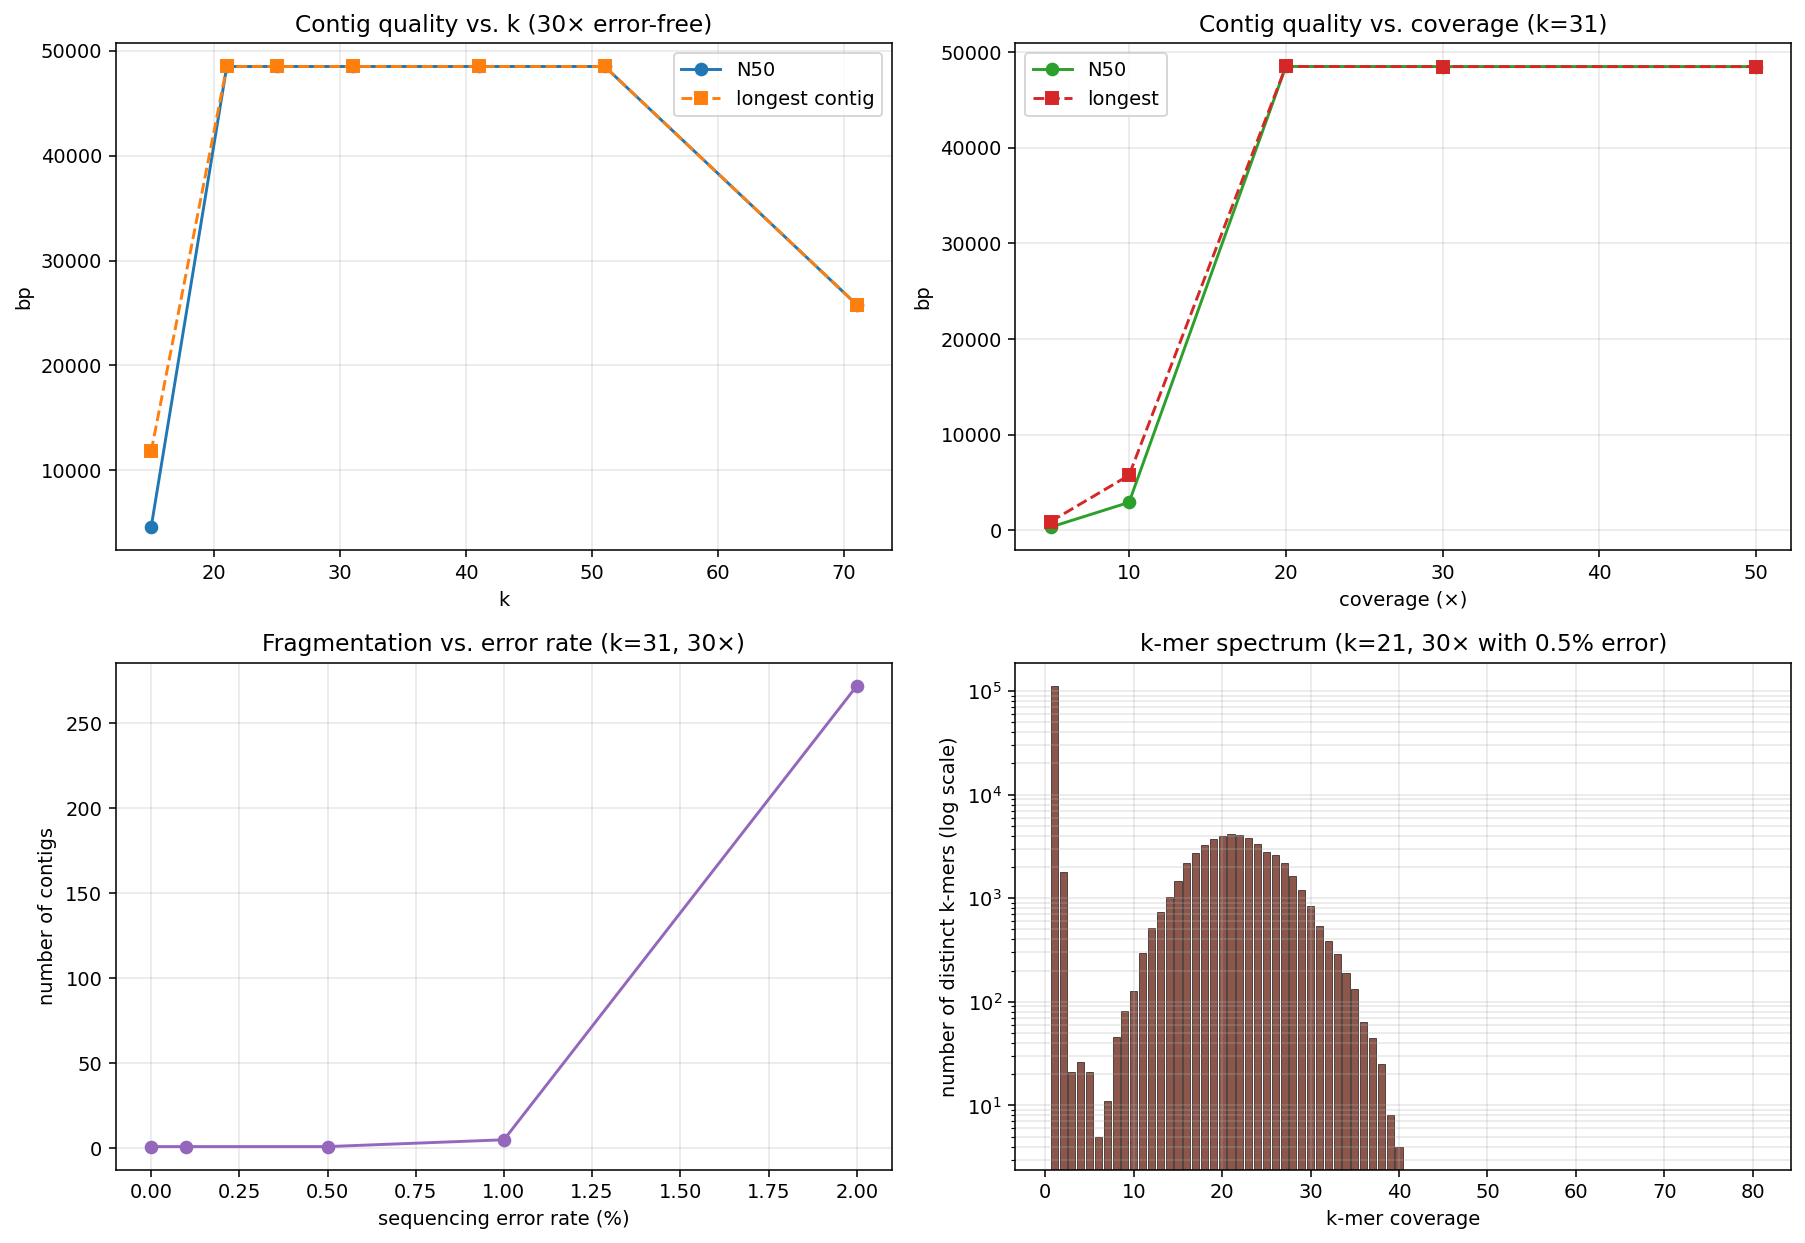
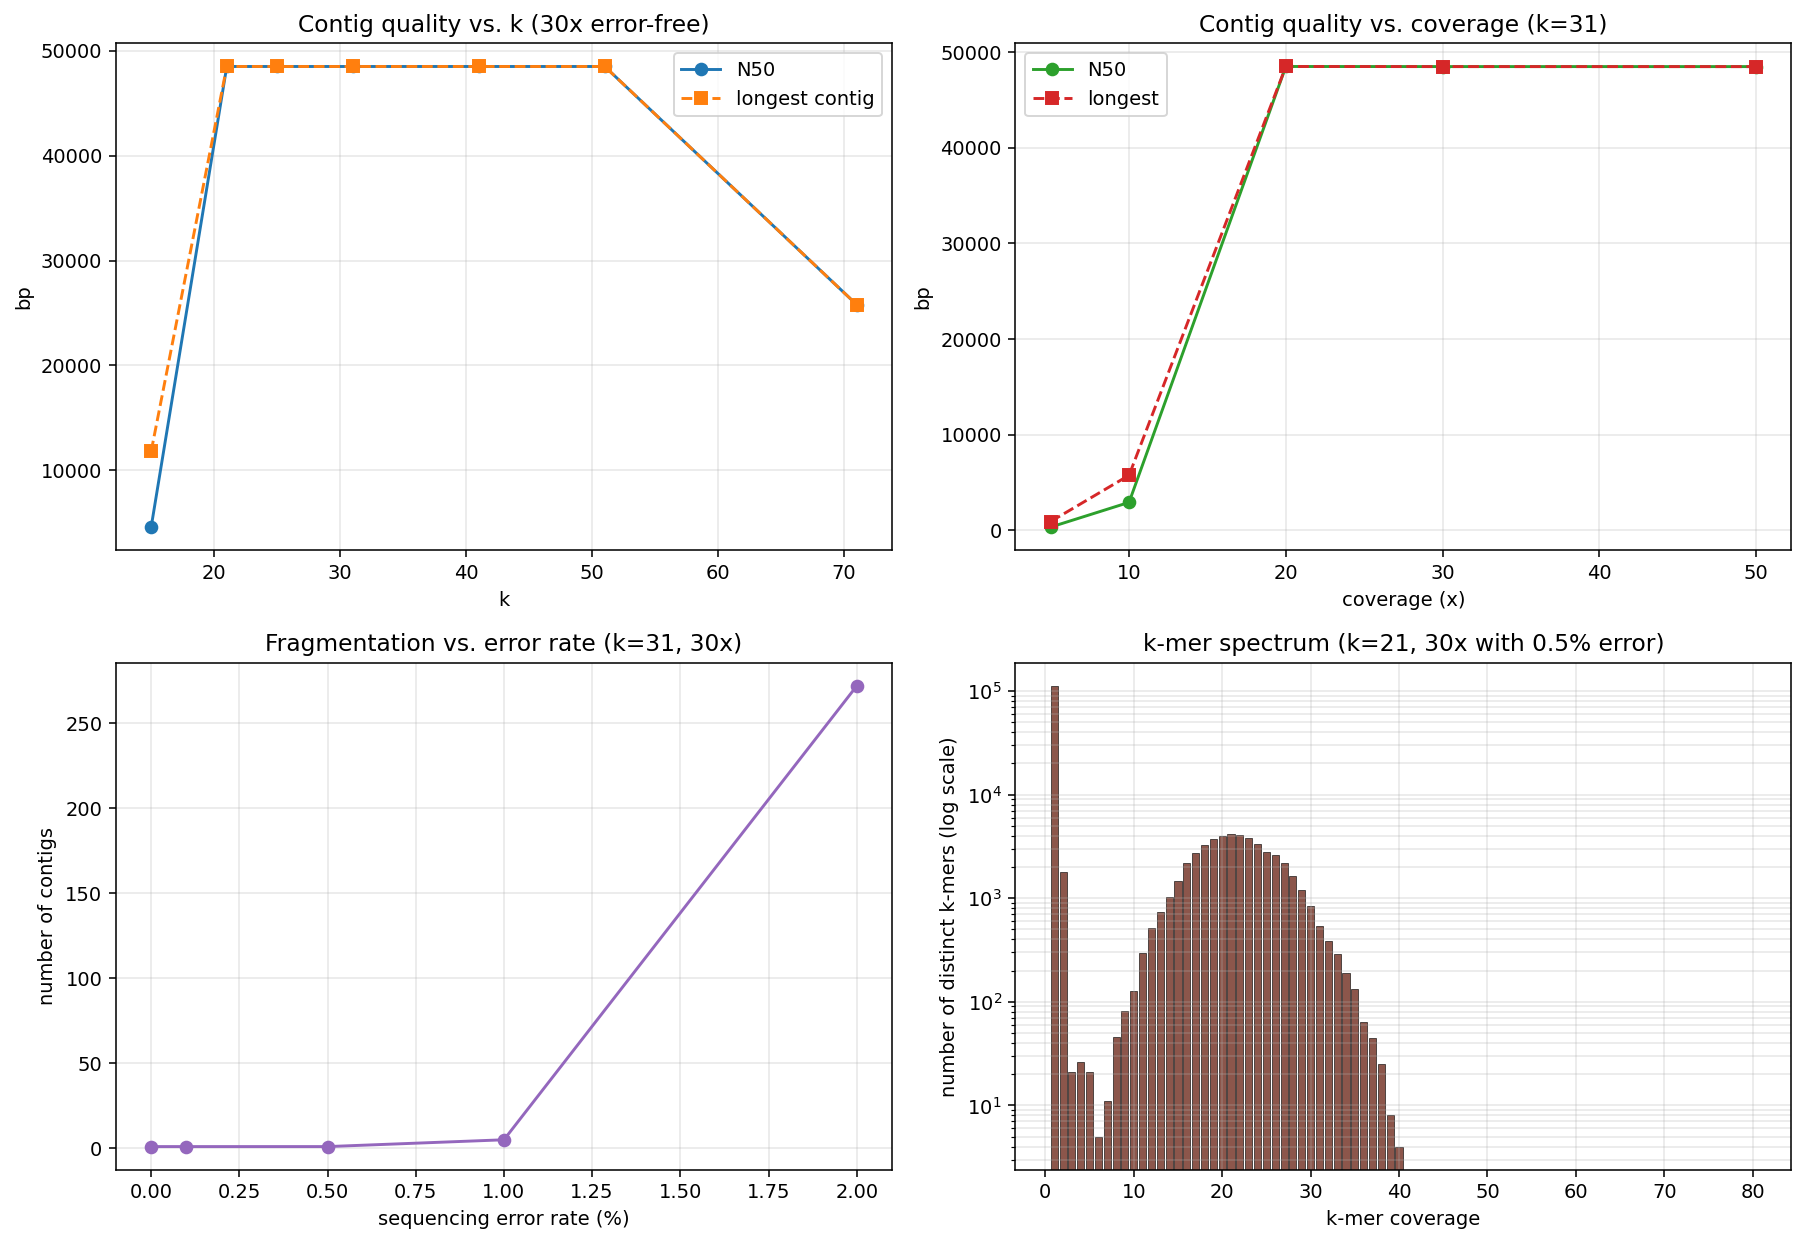
Strip Unicode from code; add LICENSE; embed demo figures in README
- Replace all non-ASCII characters in src/ and docs/ with ASCII
  equivalents (e.g. -> for arrows, ~ for almost-equal, ASCII letters
  for Greek). Fixes UnicodeEncodeError in the demo on Windows cp1252
  consoles where stdout cannot encode characters like \u2192.
- Add MIT LICENSE file.
- Embed the existing demo figure(s) in README.md so the output
  appears inline on the GitHub project page, and add a one-line
  test-count + license badge under the title.

All tests still pass: same counts as before. Demo regenerates the
figure end-to-end on a clean clone.

Changed region(s): [[0.6515, 0.4586, 0.9307, 0.5503], [0.1551, 0.4891, 0.4033, 0.5503], [0.1551, 0.0, 0.4033, 0.0306]]

diff --git a/src/debruijn/demo.py b/src/debruijn/demo.py
@@ -88,7 +88,7 @@ def main() -> None:
     print(f"  effective coverage = {sum(len(r) for r in reads) / len(reference):.1f}x")
 
     contigs, stats = assemble(reads, k=31, min_coverage=2)
-    print(f"  k=31, min_cov=2 → {stats['n_contigs']:,} contigs, "
+    print(f"  k=31, min_cov=2 -> {stats['n_contigs']:,} contigs, "
           f"total {stats['total_length']:,} bp, "
           f"N50 = {stats['n50']:,} bp, longest = {stats['longest']:,} bp")
     print(f"  recovered = {stats['total_length'] / len(reference) * 100:.1f}% of reference")
@@ -151,7 +151,7 @@ def main() -> None:
     for c in range(1, 21):
         bar = "#" * int(int(hist[c]) / max(h_max, 1) * 40)
         print(f"    cov={c:>3}: {int(hist[c]):>8,}  {bar}")
-    print("  (the peak near expected coverage ≈ 30 represents genuine k-mers;")
+    print("  (the peak near expected coverage ~ 30 represents genuine k-mers;")
     print("   the tall spike at cov=1 is sequencing error k-mers.)")
 
     # ---- 6. Eulerian reconstruction on small substring --------------------
@@ -177,11 +177,11 @@ def main() -> None:
               f"shared: {len(shared):,}")
         print(f"  reference k-mer recovery: {len(shared) / len(ref_kmers) * 100:.1f}%")
     else:
-        print("  (no Eulerian path — fell back to contig extraction)")
+        print("  (no Eulerian path -- fell back to contig extraction)")
 
     # ---- 7. figures -------------------------------------------------------
     if HAVE_MPL:
-        section("7. Figures → results/")
+        section("7. Figures -> results/")
         fig, axs = plt.subplots(2, 2, figsize=(13, 9))
 
         # (a) N50 vs k
@@ -192,7 +192,7 @@ def main() -> None:
         axs[0][0].plot(ks, longests, "s--", label="longest contig", color="#ff7f0e")
         axs[0][0].set_xlabel("k")
         axs[0][0].set_ylabel("bp")
-        axs[0][0].set_title("Contig quality vs. k (30× error-free)")
+        axs[0][0].set_title("Contig quality vs. k (30x error-free)")
         axs[0][0].legend()
         axs[0][0].grid(True, alpha=0.3)
 
@@ -202,7 +202,7 @@ def main() -> None:
         c_long = [s["longest"] for _, s in cov_sweep_results]
         axs[0][1].plot(covs, c_n50s, "o-", label="N50", color="#2ca02c")
         axs[0][1].plot(covs, c_long, "s--", label="longest", color="#d62728")
-        axs[0][1].set_xlabel("coverage (×)")
+        axs[0][1].set_xlabel("coverage (x)")
         axs[0][1].set_ylabel("bp")
         axs[0][1].set_title("Contig quality vs. coverage (k=31)")
         axs[0][1].legend()
@@ -214,7 +214,7 @@ def main() -> None:
         axs[1][0].plot(errs, ns, "o-", color="#9467bd")
         axs[1][0].set_xlabel("sequencing error rate (%)")
         axs[1][0].set_ylabel("number of contigs")
-        axs[1][0].set_title("Fragmentation vs. error rate (k=31, 30×)")
+        axs[1][0].set_title("Fragmentation vs. error rate (k=31, 30x)")
         axs[1][0].grid(True, alpha=0.3)
 
         # (d) k-mer spectrum
@@ -224,7 +224,7 @@ def main() -> None:
         axs[1][1].set_yscale("log")
         axs[1][1].set_xlabel("k-mer coverage")
         axs[1][1].set_ylabel("number of distinct k-mers (log scale)")
-        axs[1][1].set_title("k-mer spectrum (k=21, 30× with 0.5% error)")
+        axs[1][1].set_title("k-mer spectrum (k=21, 30x with 0.5% error)")
         axs[1][1].grid(True, alpha=0.3, which="both")
 
         fig.tight_layout()

diff --git a/src/debruijn/counting.py b/src/debruijn/counting.py
@@ -25,7 +25,7 @@ def count_kmers(reads: Iterable[str], k: int, canonicalize: bool = True) -> Coun
 
 def kmer_histogram(counts: Counter, max_count: int = 100) -> np.ndarray:
     """Histogram of how many distinct k-mers occur exactly 1, 2, ..., max_count times.
-    Useful for choosing a coverage cutoff — the first valley between the error peak
+    Useful for choosing a coverage cutoff -- the first valley between the error peak
     near 1 and the genomic peak near mean_coverage is the natural threshold."""
     h = np.zeros(max_count + 1, dtype=int)
     for cnt in counts.values():
@@ -36,7 +36,7 @@ def kmer_histogram(counts: Counter, max_count: int = 100) -> np.ndarray:
 class CountMinSketch:
     """Approximate k-mer counter using a small count-min sketch. Gives a
     probabilistic over estimate of any given k-mer's count in sub-linear
-    space — useful when the distinct k-mer set is too large for a dict."""
+    space -- useful when the distinct k-mer set is too large for a dict."""
 
     def __init__(self, width: int = 1 << 20, depth: int = 4, seed: int = 0):
         self.width = width

diff --git a/src/debruijn/contigs.py b/src/debruijn/contigs.py
@@ -53,7 +53,7 @@ def extract_contigs(g: DeBruijnGraph) -> List[str]:
                 cur = nxt
             contigs.append(path_to_sequence(path))
 
-    # Isolated cycles with no branching nodes — walk from any remaining node.
+    # Isolated cycles with no branching nodes -- walk from any remaining node.
     for u in list(g.nodes()):
         for v in list(g.out_edges.get(u, {}).keys()):
             if (u, v) in visited_edges:

diff --git a/docs/lit_review.md b/docs/lit_review.md
@@ -1,4 +1,4 @@
-# Literature Synthesis — Project 5: De Bruijn Graph Genome Assembly
+# Literature Synthesis -- Project 5: De Bruijn Graph Genome Assembly
 
 This review is written after reading three foundational papers in the `literature/` folder. Page numbers and quotations refer to those PDFs.
 
@@ -26,17 +26,17 @@ The three features are removed consecutively in Velvet. Tips are clipped first w
 
 ## 6. The twin-node trick and the oddness of k
 
-Velvet introduces a specific convention for handling the double-stranded nature of DNA that our implementation follows. On page 822 Zerbino and Birney state: "Each node N is attached to a twin node N̄, which represents the reverse series of reverse complement k-mers. This ensures that overlaps between reads from opposite strands are taken into account. Note that the nodes attached to a node and its twin do not need to be reverse complements of each other. The union of a node N and its twin N̄ is called a 'block.'" Our `canonical` function implements the block identity by always collapsing a k-mer and its reverse complement to the lexicographically smaller of the two. Zerbino and Birney note a subtle but important constraint on page 822: "To ensure that each k-mer cannot be its own reverse complement, k must be odd." A palindromic k-mer would be its own twin and would create self-loops that corrupt the algebra. Our default tests and demo use odd k (3, 5, 15, 21, 25) in compliance with this rule.
+Velvet introduces a specific convention for handling the double-stranded nature of DNA that our implementation follows. On page 822 Zerbino and Birney state: "Each node N is attached to a twin node N?, which represents the reverse series of reverse complement k-mers. This ensures that overlaps between reads from opposite strands are taken into account. Note that the nodes attached to a node and its twin do not need to be reverse complements of each other. The union of a node N and its twin N? is called a 'block.'" Our `canonical` function implements the block identity by always collapsing a k-mer and its reverse complement to the lexicographically smaller of the two. Zerbino and Birney note a subtle but important constraint on page 822: "To ensure that each k-mer cannot be its own reverse complement, k must be odd." A palindromic k-mer would be its own twin and would create self-loops that corrupt the algebra. Our default tests and demo use odd k (3, 5, 15, 21, 25) in compliance with this rule.
 
 ## 7. The Eulerian path algorithm
 
-Hierholzer's 1873 algorithm for Eulerian paths runs in O(E) time and our `find_eulerian_path` is a direct transcription of it. Compeau Pevzner and Tesler 2011 describe the algorithm intuitively on page 3 using an ant metaphor: "An ant walks along the edges of a Eulerian graph, with the intention of traversing each edge exactly once. Each time it enters a vertex it has not seen before, it arbitrarily picks an unused outgoing edge and follows it. Sooner or later the ant gets stuck — not because it has traversed all edges in the graph, but rather because it has entered a vertex and found no unused outgoing edges." The fix is to splice in cycles: whenever the ant gets stuck, find a vertex on the current walk that still has unused outgoing edges, walk a cycle from there back to itself, and splice that cycle into the walk. Our implementation uses the iterative stack-based variant of this, which is cleaner than the recursive splice.
+Hierholzer's 1873 algorithm for Eulerian paths runs in O(E) time and our `find_eulerian_path` is a direct transcription of it. Compeau Pevzner and Tesler 2011 describe the algorithm intuitively on page 3 using an ant metaphor: "An ant walks along the edges of a Eulerian graph, with the intention of traversing each edge exactly once. Each time it enters a vertex it has not seen before, it arbitrarily picks an unused outgoing edge and follows it. Sooner or later the ant gets stuck -- not because it has traversed all edges in the graph, but rather because it has entered a vertex and found no unused outgoing edges." The fix is to splice in cycles: whenever the ant gets stuck, find a vertex on the current walk that still has unused outgoing edges, walk a cycle from there back to itself, and splice that cycle into the walk. Our implementation uses the iterative stack-based variant of this, which is cleaner than the recursive splice.
 
 The existence condition is also well known and we check it directly. A connected graph has an Eulerian path if and only if exactly zero or exactly two vertices have unbalanced in-degree and out-degree, with the two unbalanced ones (if they exist) having an excess of exactly one outgoing and one incoming edge respectively. When this condition fails, `find_eulerian_path` returns None and the caller falls back to `extract_contigs`, the maximal non-branching path decomposition.
 
 ## 8. Contigs and the maximal non-branching path decomposition
 
-When no global Eulerian path exists — which is the case for almost every real assembly due to repeats and gaps — the graph is decomposed into maximal non-branching paths called contigs. A non-branching path is a path where every internal node has in-degree one and out-degree one. Zerbino and Birney call these "chains" and explain the simplification on page 822: "Whenever a node A has only one outgoing arc that points to another node B that has only one ingoing arc, the two nodes (and their twins) are merged. Iteratively, chains of blocks are collapsed into single blocks." Our `extract_contigs` implements this compression directly: we walk from every branching or terminal node along the unique successor as long as the path is non-branching, emit the concatenated sequence as a contig, and move on. The result is a set of unambiguously assembled DNA strings whose length distribution is summarized by the N50 statistic, the length N such that contigs of length at least N cover 50 percent of the total assembly.
+When no global Eulerian path exists -- which is the case for almost every real assembly due to repeats and gaps -- the graph is decomposed into maximal non-branching paths called contigs. A non-branching path is a path where every internal node has in-degree one and out-degree one. Zerbino and Birney call these "chains" and explain the simplification on page 822: "Whenever a node A has only one outgoing arc that points to another node B that has only one ingoing arc, the two nodes (and their twins) are merged. Iteratively, chains of blocks are collapsed into single blocks." Our `extract_contigs` implements this compression directly: we walk from every branching or terminal node along the unique successor as long as the path is non-branching, emit the concatenated sequence as a contig, and move on. The result is a set of unambiguously assembled DNA strings whose length distribution is summarized by the N50 statistic, the length N such that contigs of length at least N cover 50 percent of the total assembly.
 
 ## 9. Repeats, tangles, and the Eulerian superpath problem
 

diff --git a/docs/PLAN.md b/docs/PLAN.md
@@ -1,32 +1,32 @@
-# Project Plan — De Bruijn Graph Genome Assembly
+# Project Plan -- De Bruijn Graph Genome Assembly
 
 ## Goal
 Build a from scratch library (`debruijn`) that implements a minimal but correct Velvet style short read genome assembler. The library covers k-mer counting, de Bruijn graph construction, tip removal, bubble popping, Hierholzer's Eulerian path algorithm, and maximal non branching path extraction for contig output. Validate on simulated reads from the lambda phage genome and benchmark against SPAdes on a small bacterial or phage dataset.
 
 ## Layers
 
-### Layer 0 — Foundations
+### Layer 0 -- Foundations
 Read and write FASTA and FASTQ. Encode DNA as integer arrays. Handle reverse complements so that both strands contribute to the graph.
 
-### Layer 1 — K-mer operations
+### Layer 1 -- K-mer operations
 Canonical k-mer encoding (lexicographically smaller of k-mer and its reverse complement). Exact k-mer counting via a Python dict with numpy bucketing. Approximate k-mer counting via count min sketch for memory constrained settings.
 
-### Layer 2 — De Bruijn graph
+### Layer 2 -- De Bruijn graph
 Node set indexed by distinct (k-1)-mers. Edge set indexed by distinct k-mers. Edge weights = observed read coverage. Expose adjacency structure with in degree and out degree lookups and a neighbors iterator.
 
-### Layer 3 — Graph cleanup
+### Layer 3 -- Graph cleanup
 Tip removal: iteratively prune paths of length less than 2k that end at a degree 1 node. Bubble popping: identify pairs of parallel paths between two shared nodes; keep the higher coverage path and remove the other. Low coverage edge removal: delete edges with coverage below a threshold proportional to the mean.
 
-### Layer 4 — Eulerian traversal
+### Layer 4 -- Eulerian traversal
 Hierholzer's algorithm in linear time for finding an Eulerian circuit or path. Handles the case where the graph is a disjoint union of connected components by returning a set of circuits.
 
-### Layer 5 — Contig extraction
+### Layer 5 -- Contig extraction
 Maximal non branching path collapse: any internal node with in degree and out degree both equal to 1 is merged with its successor. The resulting edges are contigs. Output as FASTA. Compute N50, total assembly length, number of contigs.
 
-### Layer 6 — Visualization
+### Layer 6 -- Visualization
 Plot the simplified graph (nodes and edges) using matplotlib and networkx. Plot the k-mer coverage histogram (used to set the coverage cutoff). Plot N50 as a function of k to help choose the right k.
 
-### Layer 7 — External comparison
+### Layer 7 -- External comparison
 Optional bridge to SPAdes via subprocess. Run SPAdes on the same read set and compare the N50 and fraction of reference genome recovered side by side with our assembler.
 
 ## Data

diff --git a/README.md b/README.md
@@ -2,6 +2,10 @@
 
 A from scratch library of de Bruijn graph genome assembly algorithms. The library builds the full pipeline from k-mer counting through graph construction, error correction by tip removal and low coverage edge filtering, Hierholzer Eulerian path reconstruction, and maximal non branching path contig extraction with N50 reporting. Every algorithm is validated against brute force construction on small sequences and against a full end to end assembly of the 48502 bp lambda phage reference genome at various coverage depths, k values, and error rates.
 
+**Tests:** 15 passing in <1 s. **License:** MIT.
+
+![debruijn demo](results/debruijn_demo.png)
+
 ## Foundations
 
 The assembly problem takes millions of short overlapping reads from shotgun sequencing and reconstructs the original genome. Two algorithmic paradigms compete. The overlap layout consensus approach treats each read as a node and each pairwise overlap as an edge, reducing assembly to Hamiltonian path which is NP hard in general and intractable at short read volumes. The de Bruijn graph approach, introduced for assembly by Idury and Waterman 1995 and crystallized in Pevzner Tang and Waterman 2001, treats each k-mer as an edge from its k minus one prefix to its k minus one suffix, reducing assembly to Eulerian path which Hierholzer 1873 solves in linear time. Compeau Pevzner and Tesler 2011 put it bluntly in their Nature Biotechnology primer: the computational problem of fragment assembly with a million reads is easier to solve than the sequencing by hybridization problem with a few thousand probes. Every modern short read assembler from Velvet 2008 through SPAdes 2012 to current long read extensions uses a de Bruijn graph at its core.
